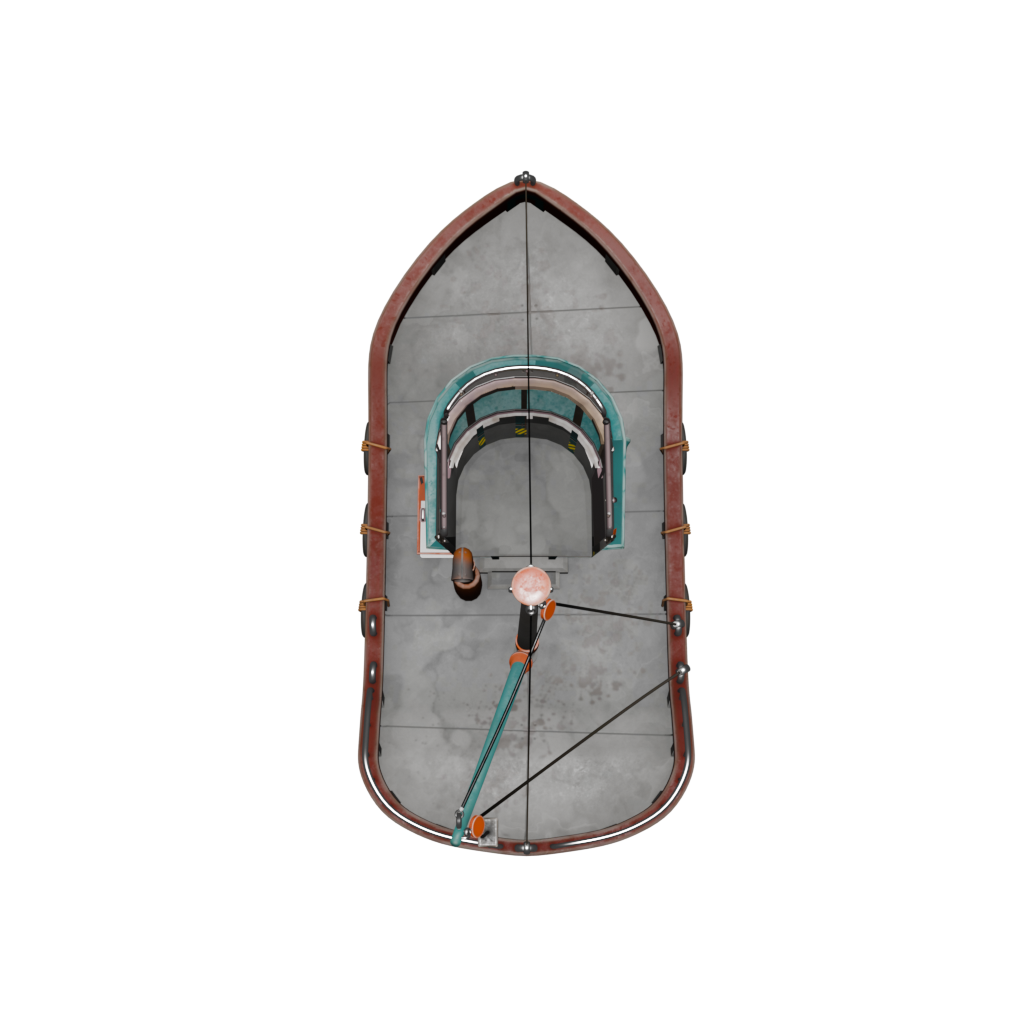
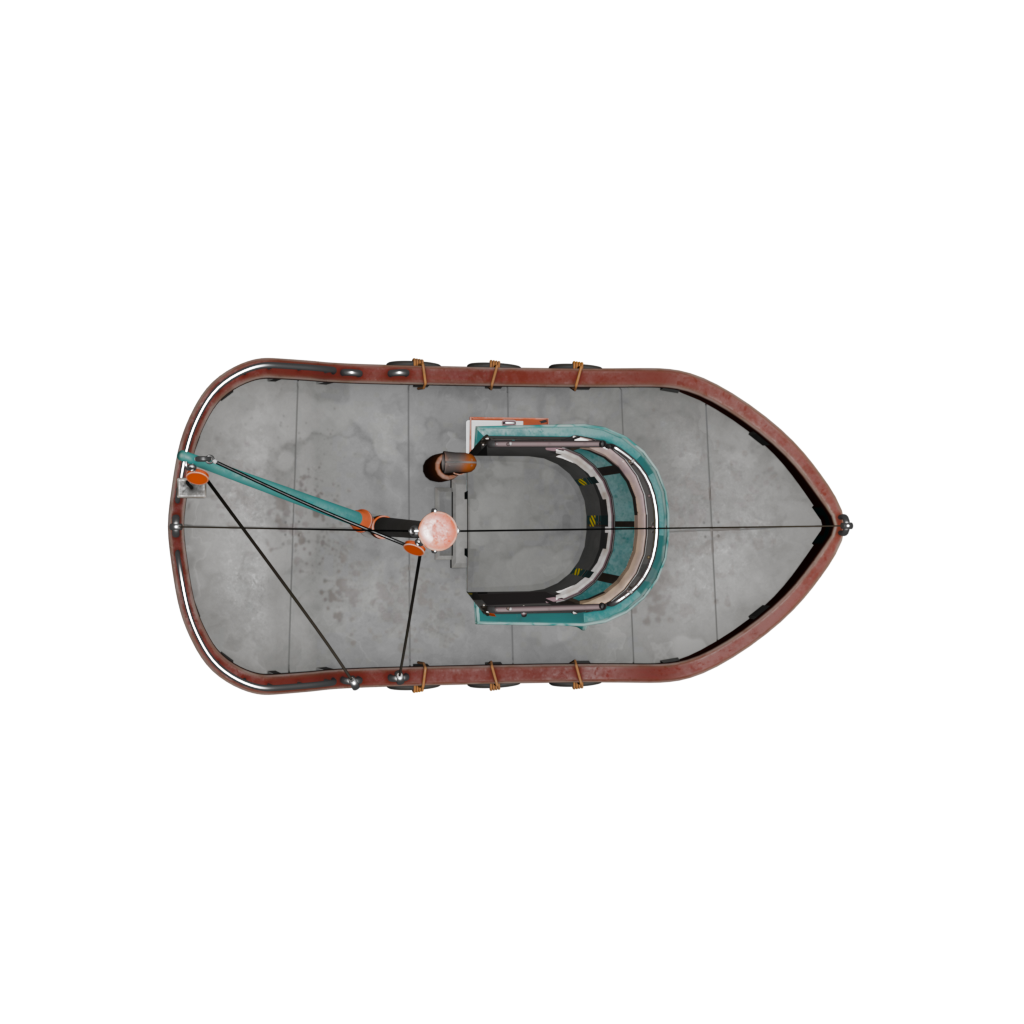
Barco con rotacion

Changed region(s): [[0.1562, 0.1562, 0.8438, 0.8438]]

diff --git a/juego.js b/juego.js
@@ -39,6 +39,10 @@ class MainScene extends Phaser.Scene {
         // Velocidad constante
         const velocidad = 300;
 
+        if (this.jugador.body.velocity.length() > 90) {
+            this.jugador.rotation = this.jugador.body.angle;
+        }
+
         // Resetear velocidad en cada frame para que no se mueva solo
         this.jugador.setVelocity(0);
 
